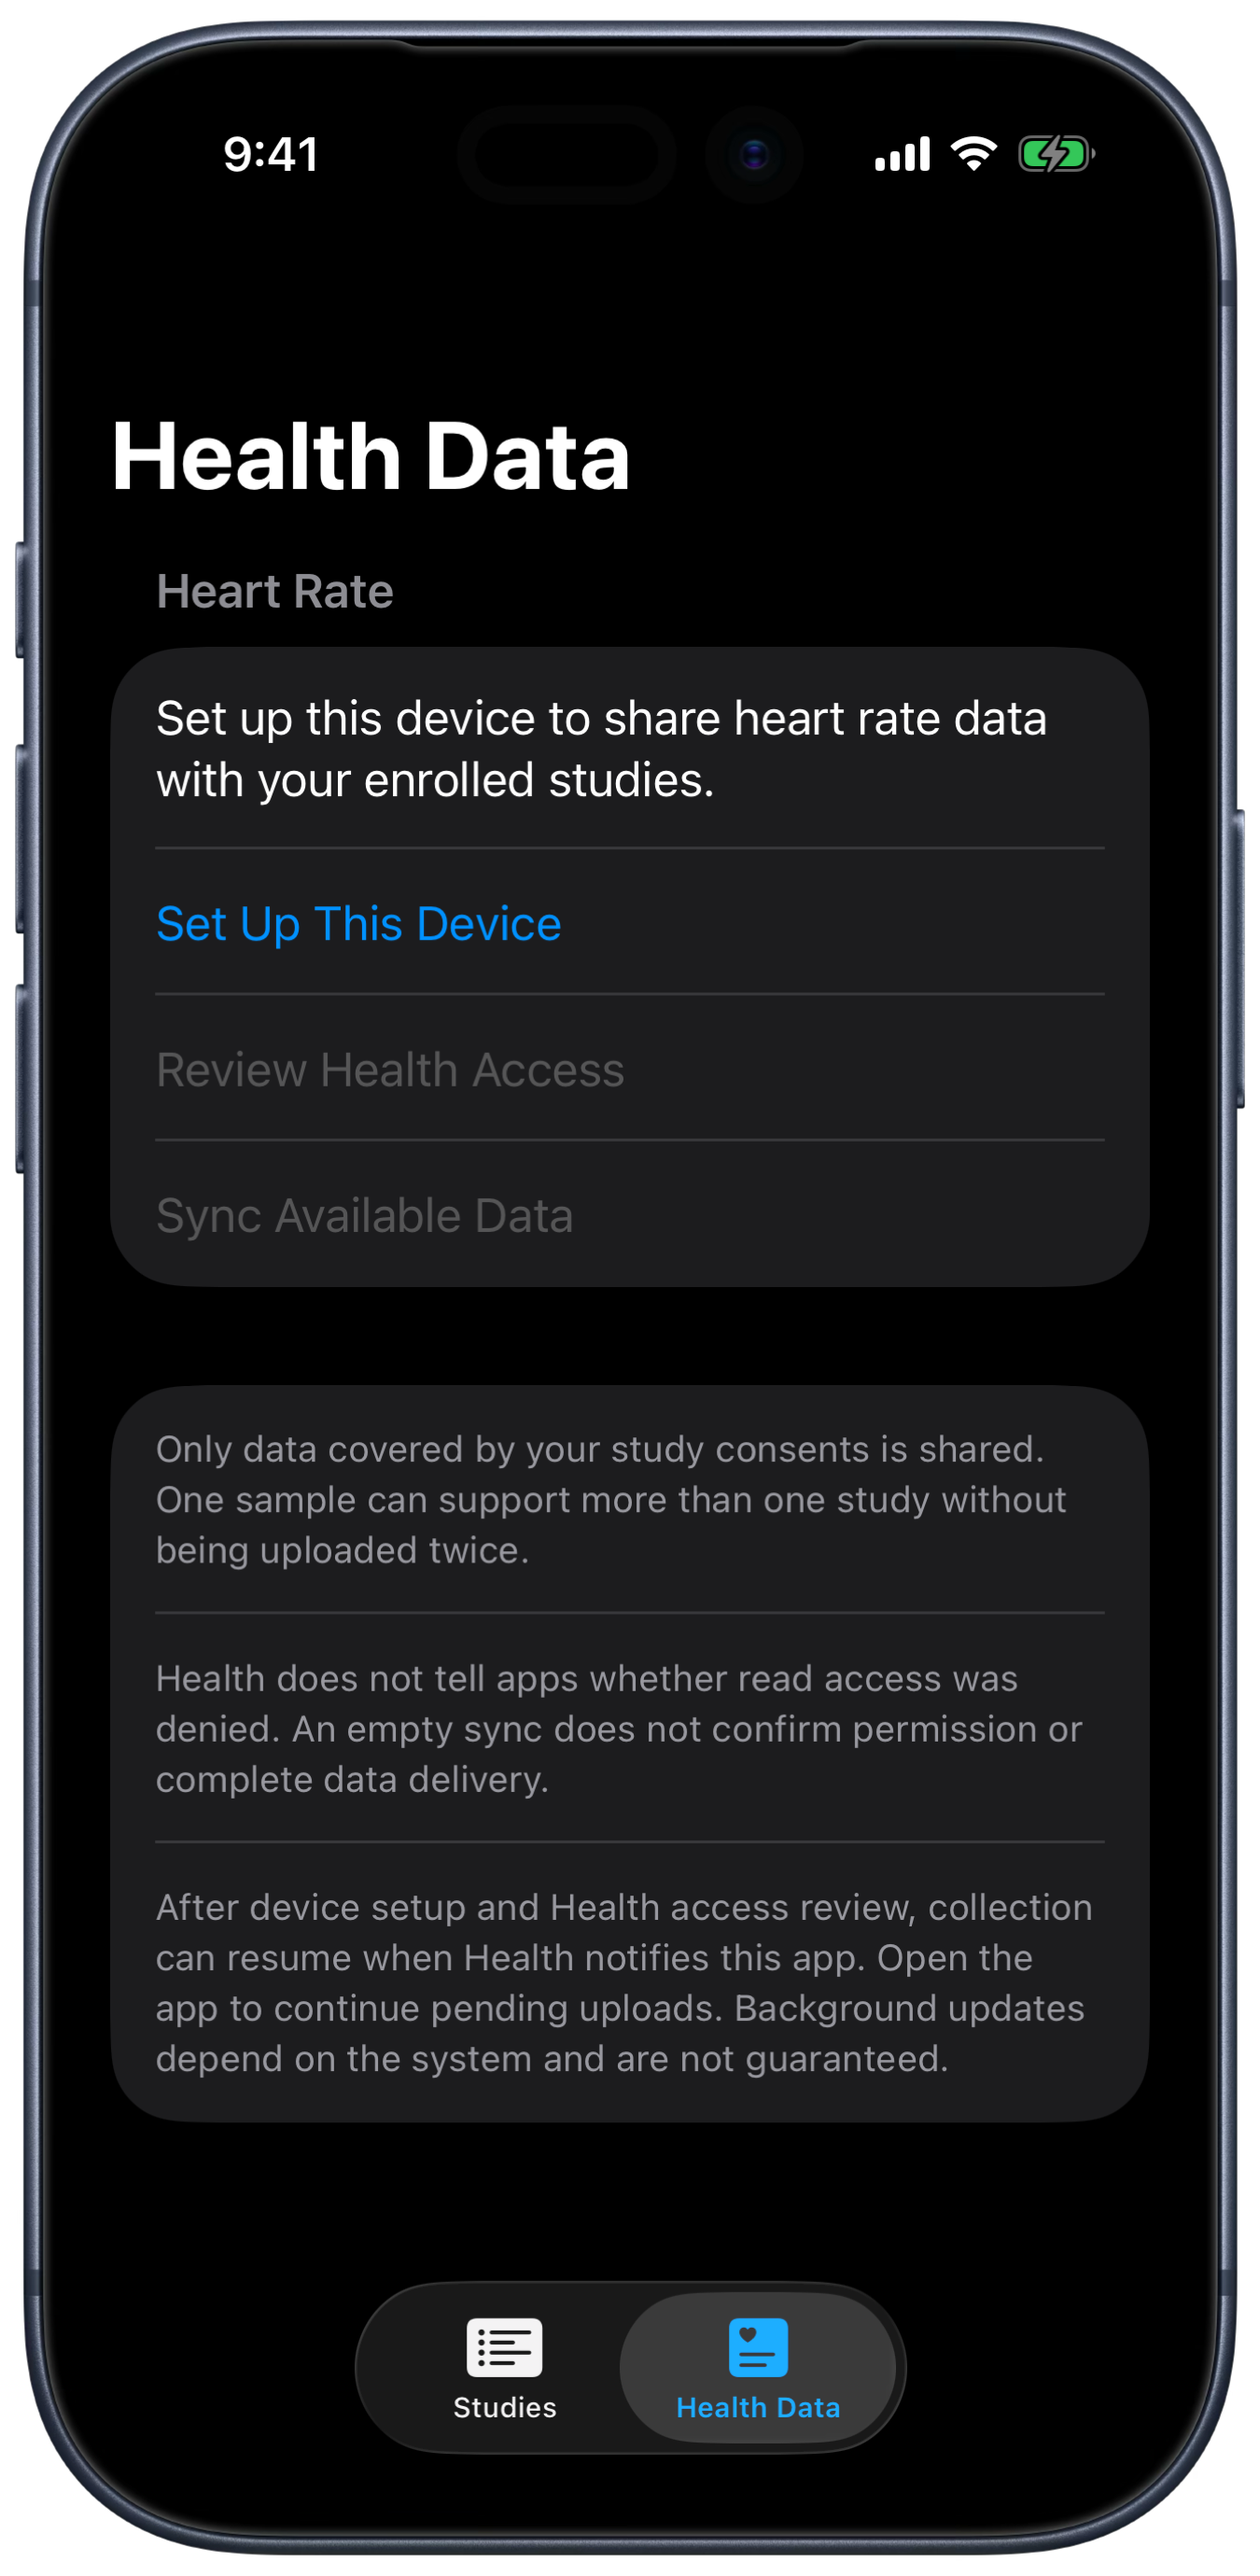
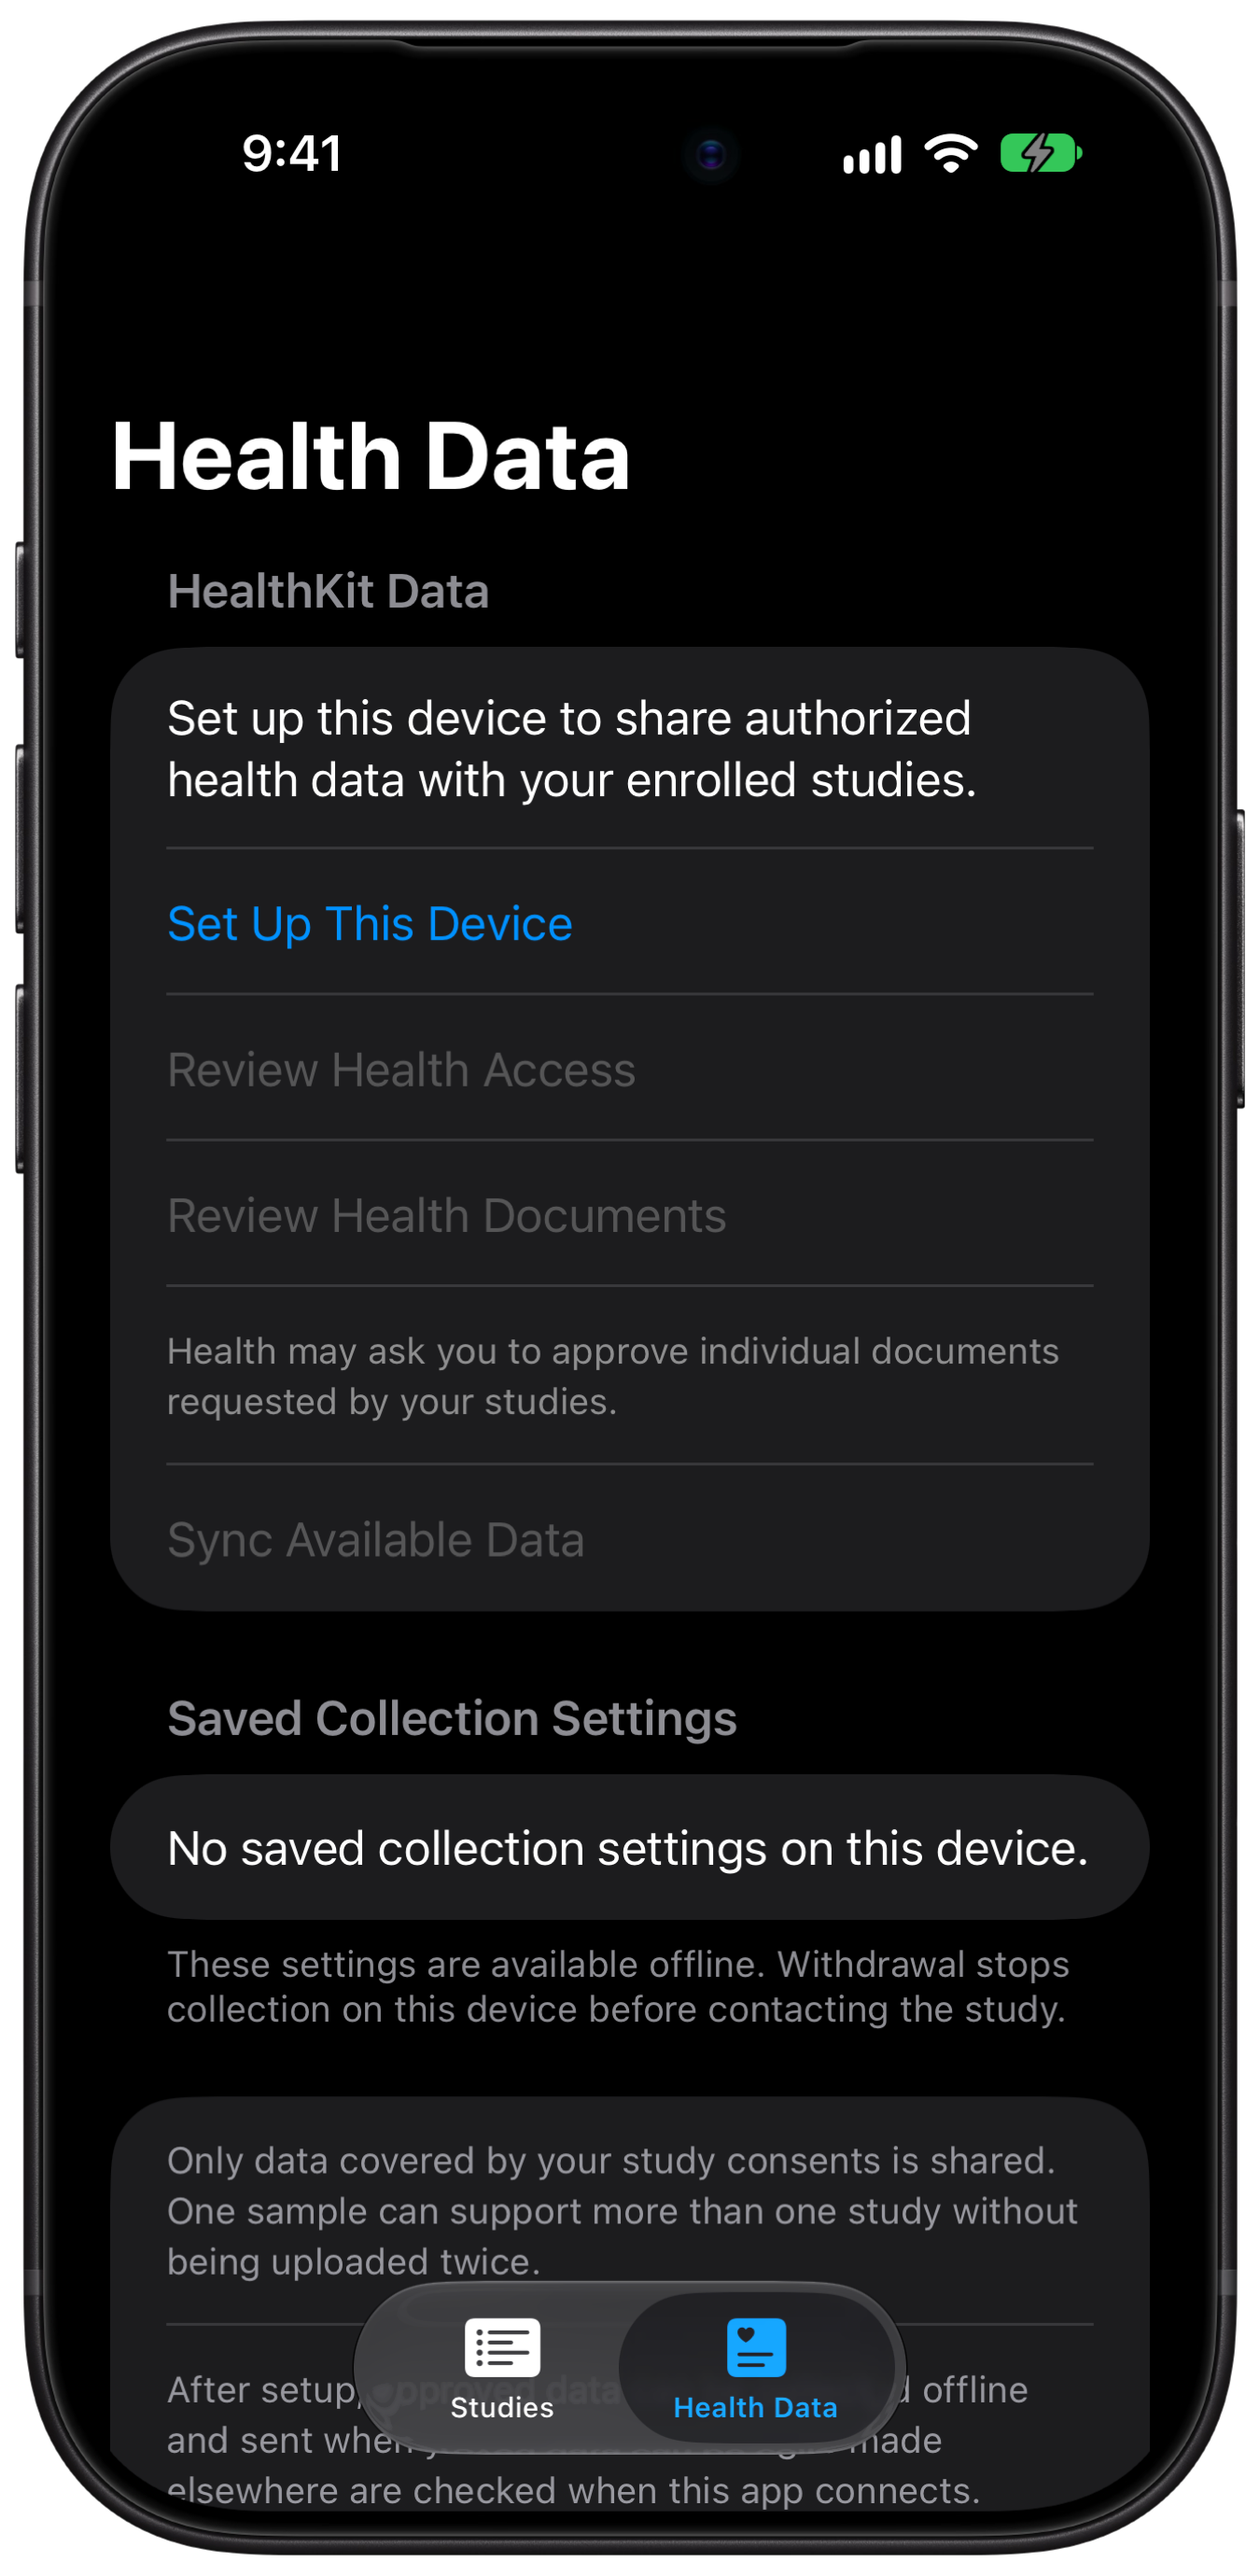
Capture the mobile documentation screenshots on iPhone 18 Pro
Capture all eight participant app images directly on an iPhone 18 Pro
Simulator with iOS 27.2 and RocketSim's Black device frame on a
transparent background, replacing the composited frames. The capture
script now refuses other devices and runtimes and checks the 1350 x 2760
output size. The Health Data capture shows the current HealthKit Data
and Review Health Documents sections.

diff --git a/docs/images/README.md b/docs/images/README.md
@@ -82,10 +82,10 @@ First run the web-capture workflow above against the same development stack.
 It seeds and publishes the synthetic Daily Activity Study used by the mobile
 captures. A fresh UI-test stack alone does not contain that published study.
 
-Build and install the same revision of the iOS app on a dedicated iPhone 17 Pro
-Simulator. Use the CI build settings and `xcbeautify`; do not take screenshots while
-automated tests own the simulator. Sign in as the synthetic Alice participant from
-the development realm. Open RocketSim's live preview for visual review.
+Build and install the same revision of the iOS app on a dedicated iPhone 18 Pro
+Simulator with iOS 27.2. Use the CI build settings and `xcbeautify`; do not take
+screenshots while automated tests own the simulator. Sign in as the synthetic Alice
+participant from the development realm. Open RocketSim's live preview for visual review.
 
 Explicitly install the built `Trove.app` with `xcrun simctl install` after tests.
 Do not assume that launching the ordinary app uses the test build: Xcode's test
@@ -108,9 +108,11 @@ For each state, run from the repository root:
 bash TroveiOS/scripts/capture-documentation.sh SIMULATOR_UDID consent
 ```
 
-Replace `consent` with the corresponding capture name. RocketSim supplies the device
-bezel; the script captures light and dark appearances, uses a consistent status bar,
-and checks that both outputs decode before replacing existing files. Review every
+Replace `consent` with the corresponding capture name. The script refuses any other
+device or runtime. RocketSim supplies its default Black iPhone 18 Pro frame on a
+transparent background; the images are direct captures without compositing. The
+script captures light and dark appearances, uses a consistent status bar, and checks
+that both outputs are 1350 × 2760 PNGs before replacing existing files. Review every
 image for the expected content, visible errors, clipping and stale branding. A valid
 PNG is not proof that the app is on the correct screen.
 
